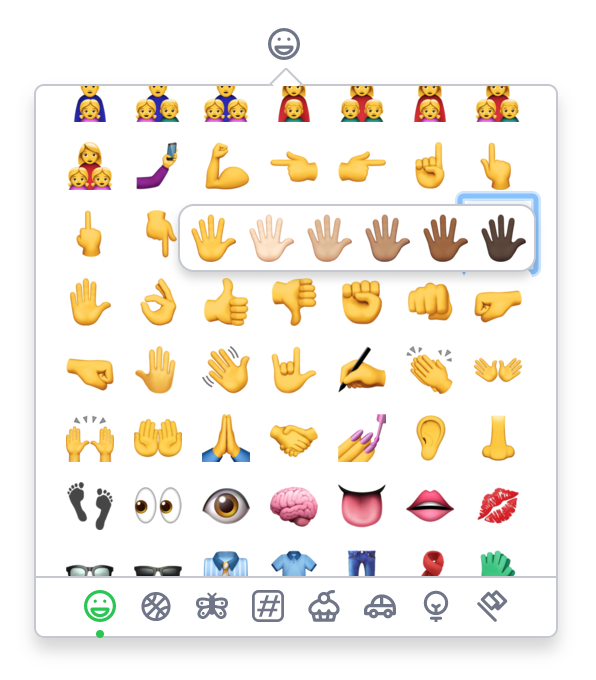
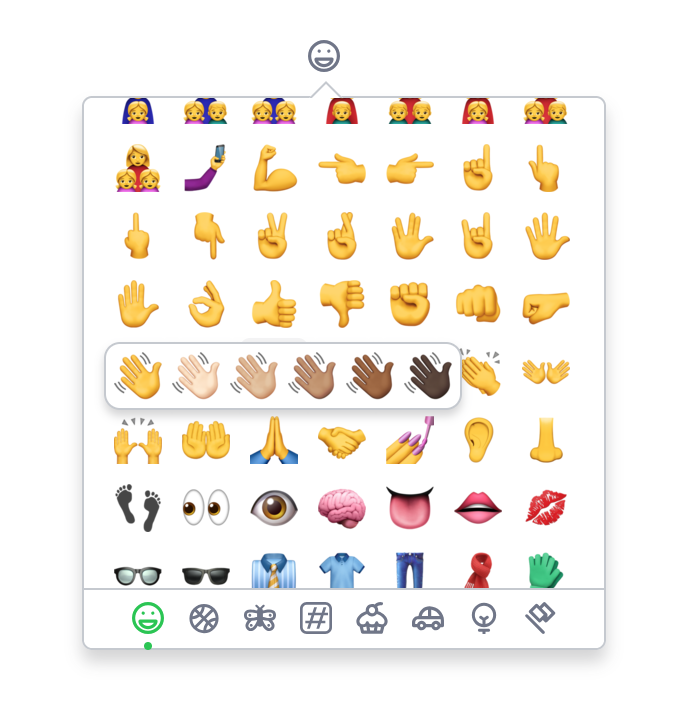
misc: update readme

diff --git a/packages/emogeez-parser/lib/matcher/matcher.test.js b/packages/emogeez-parser/lib/matcher/matcher.test.js
@@ -91,6 +91,7 @@ describe('Matcher', () => {
       assert.isFalse(hasOnlyEmojis('apple', simpleText5));
 
       assert.isTrue(hasOnlyEmojis('apple', emojisText1));
+      assert.isTrue(hasOnlyEmojis('apple', `${emojisText1} ${emojisText3}`));
       assert.isTrue(hasOnlyEmojis('apple', emojisText2));
       assert.isTrue(hasOnlyEmojis('apple', emojisText3));
       assert.isTrue(hasOnlyEmojis('apple', emojisText4));

diff --git a/packages/emogeez-parser/lib/matcher/matcher.js b/packages/emogeez-parser/lib/matcher/matcher.js
@@ -71,7 +71,7 @@ export default ({
       const charUnicode = getUnicode(char);
       const emojiName = getNameFromCodepoint(themeName, charUnicode);
 
-      return !isUndefined(emojiName);
+      return !isUndefined(emojiName) || /\s/g.test(char);
     });
 
     return (chars && (chars.length === emojis.length));

diff --git a/packages/emogeez-generator/lib/config/config.js b/packages/emogeez-generator/lib/config/config.js
@@ -32,7 +32,7 @@ export default (commander, emitter) => {
   const DEFAULT_CONFIG_PARAMS = {
     destination: 'emojis',
     themesUrl: DEFAULT_THEMES_URL,
-    size: 48,
+    size: 24,
     cache: false,
     prefix: 'emojis',
     preproc: 'sass',

diff --git a/packages/emogeez-generator/README.md b/packages/emogeez-generator/README.md
@@ -1,16 +1,17 @@
 # Emogeez generator 👷♂
 
 This module is a tool for building emojis sprites for many themes to be used on web apps.
-It gathers required informations from the website [Emojipedia](https://emojipedia.org) like images of all emojis in different themes and build an sprite image with all the emojis.
-To display these emojis on webpages it generates also the stylesheet file with the positions.
+It gathers required informations from the website [Emojipedia](https://emojipedia.org) like images of all emojis in different themes and build an sprite image with all the emojis and the stylesheet file associated with all the emojis positions.
 To be used on web app easily, it build a JSON file with useful informations about each emojis for each categories.
+You can after this use the [emogeez-react-components](https://github.com/arthur-feral/emogeez/blob/master/packages/emogeez-react-components/README.md) components library to display them on your app.
 
+---
 Themes that can be used: `apple, emojione, emojidex, emojipedia, facebook, google, htc, lg, messenger, microsoft, mozilla, samsung, twitter, whatsapp`
 
 Once the generator's work is done, you find the generated files into the specified folder (default in the current working directory).
-For each themes, you will find a .json, .png and .sass or .less.
+For each themes, you will find a .json, .png and .sass or .less and a .css file.
 
-![generator](https://github.com/arthur-feral/emogeez/blob/master/packages/emogeez-generator/demo_generator.png)
+![generator](https://github.com/arthur-feral/emogeez/raw/master/packages/emogeez-generator/demo_generator.png)
 
 #### The PNG
 [apple.png](https://github.com/arthur-feral/emogeez/raw/master/packages/emogeez-generator/emojis/apple/apple.png)
@@ -50,136 +51,57 @@ The emojis positions are stored in this stylesheet. Each emoji has a classname b
 It stores useful informations about each emoji.
 
 ```JSON
-{
-  "food-drink": {
-    "symbol": "🍔",
-    "url": "https://emojipedia.org/food-drink/",
-    "name": "food-drink",
-    "fullName": "Food & Drink",
-    "unicode": "1f354",
-    "emojis": [
-      {
-        "symbol": "🍇",
-        "name": "grapes",
-        "fullName": "Grapes",
-        "category": "food-drink",
-        "unicode": "1f347",
-        "shortnames": [
-          "grapes"
-        ],
-        "shortname": "grapes"
-      },
-      {
-        "symbol": "🍈",
-        "name": "melon",
-        "fullName": "Melon",
-        "category": "food-drink",
-        "unicode": "1f348",
-        "shortnames": [
-          "melon"
-        ],
-        "shortname": "melon"
-      },
-      {
-        "symbol": "🍉",
-        "name": "watermelon",
-        "fullName": "Watermelon",
-        "category": "food-drink",
-        "unicode": "1f349",
-        "shortnames": [
-          "watermelon"
-        ],
-        "shortname": "watermelon"
-      },
-```
-if an emoji owns modifiers (different version of an emoji like skin color etc...)
-of course you will find the modifiers version of emojis (black skin etc...). They are stored into the original emoji `modifiers` key if any. The modifiers versions of an emoji will have the same `index` key than the original.
-```
-{
-    "symbol": "🚣",
-    "url": "https://emojipedia.org/rowboat/",
-    "name": "rowboat",
-    "fullName": "Person Rowing Boat",
-    "category": "activity",
-    "unicode": "1f6a3",
+"father-christmas": {
+    "symbol": "🎅",
+    "name": "father-christmas",
+    "fullName": "Santa Claus",
+    "category": "people",
+    "unicode": "1f385",
     "shortnames": [
-      "rowboat"
+      "santa"
     ],
     "modifiers": {
-      "rowboat-type-1-2": {
-        "parent": "rowboat",
-        "fullName": "Person Rowing Boat: Light Skin Tone",
-        "name": "rowboat-type-1-2",
-        "symbol": "🚣🏻",
-        "category": "activity",
-        "url": "https://emojipedia.org/rowboat-type-1-2/",
-        "unicode": "1f6a3-1f3fb",
-        "shortnames": [
-          "rowboat-type-1-2"
-        ],
-        "modifiers": {},
-        "shortname": "rowboat-type-1-2"
+      "father-christmas-type-1-2": {
+        "parent": "father-christmas",
+        "fullName": "Santa Claus: Light Skin Tone",
+        "name": "father-christmas-type-1-2",
+        "symbol": "🎅🏻",
+        "category": "people",
       },
-      "rowboat-type-3": {
-        "parent": "rowboat",
-        "fullName": "Person Rowing Boat: Medium-Light Skin Tone",
-        "name": "rowboat-type-3",
-        "symbol": "🚣🏼",
-        "category": "activity",
-        "url": "https://emojipedia.org/rowboat-type-3/",
-        "unicode": "1f6a3-1f3fc",
-        "shortnames": [
-          "rowboat-type-3"
-        ],
-        "modifiers": {},
-        "shortname": "rowboat-type-3"
+      "father-christmas-type-3": {
+        "parent": "father-christmas",
+        "fullName": "Santa Claus: Medium-Light Skin Tone",
+        "name": "father-christmas-type-3",
+        "symbol": "🎅🏼",
+        "category": "people",
       },
-      "rowboat-type-4": {
-        "parent": "rowboat",
-        "fullName": "Person Rowing Boat: Medium Skin Tone",
-        "name": "rowboat-type-4",
-        "symbol": "🚣🏽",
-        "category": "activity",
-        "url": "https://emojipedia.org/rowboat-type-4/",
-        "unicode": "1f6a3-1f3fd",
-        "shortnames": [
-          "rowboat-type-4"
-        ],
-        "modifiers": {},
-        "shortname": "rowboat-type-4"
+      "father-christmas-type-4": {
+        "parent": "father-christmas",
+        "fullName": "Santa Claus: Medium Skin Tone",
+        "name": "father-christmas-type-4",
+        "symbol": "🎅🏽",
+        "category": "people",
       },
-      "rowboat-type-5": {
-        "parent": "rowboat",
-        "fullName": "Person Rowing Boat: Medium-Dark Skin Tone",
-        "name": "rowboat-type-5",
-        "symbol": "🚣🏾",
-        "category": "activity",
-        "url": "https://emojipedia.org/rowboat-type-5/",
-        "unicode": "1f6a3-1f3fe",
-        "shortnames": [
-          "rowboat-type-5"
-        ],
-        "modifiers": {},
-        "shortname": "rowboat-type-5"
+      "father-christmas-type-5": {
+        "parent": "father-christmas",
+        "fullName": "Santa Claus: Medium-Dark Skin Tone",
+        "name": "father-christmas-type-5",
+        "symbol": "🎅🏾",
+        "category": "people",
       },
-      "rowboat-type-6": {
-        "parent": "rowboat",
-        "fullName": "Person Rowing Boat: Dark Skin Tone",
-        "name": "rowboat-type-6",
-        "symbol": "🚣🏿",
-        "category": "activity",
-        "url": "https://emojipedia.org/rowboat-type-6/",
-        "unicode": "1f6a3-1f3ff",
-        "shortnames": [
-          "rowboat-type-6"
-        ],
-        "modifiers": {},
-        "shortname": "rowboat-type-6"
+      "father-christmas-type-6": {
+        "parent": "father-christmas",
+        "fullName": "Santa Claus: Dark Skin Tone",
+        "name": "father-christmas-type-6",
+        "symbol": "🎅🏿",
+        "category": "people",
       }
     },
-    "shortname": "rowboat"
-}
+    "shortname": "santa"
+    // ...
 ```
+if an emoji owns modifiers (different version of an emoji like skin color etc...)
+of course you will find the modifiers version of emojis (black skin etc...). They are stored into the original emoji `modifiers` key if any.
 
 ### How to use
 
@@ -214,7 +136,7 @@ $ yarn run -h
 
 Run it
 ```bash
-$ yarn run --preproc sass -d path/to/the/folder -s 48 -c
+$ yarn run --preproc sass -d path/to/the/folder -s 24 -c
 ```
 
 ###Options
@@ -228,7 +150,7 @@ $ yarn run --preproc sass -d path/to/the/folder -s 48 -c
 
 **size**
 
-```-s, --size``` The sprite's height (DEFAULT: 48)
+```-s, --size``` The sprite's height (DEFAULT: 24)
 
 **prefix**
 
@@ -236,7 +158,7 @@ $ yarn run --preproc sass -d path/to/the/folder -s 48 -c
 
 **cache**
 
-```-c, --cache``` Force using cache. In fact the program will get about 20k images and at least 2k html pages, so it caches datas on the first use and if you launch it again, it could use datas on the ``tmp/` folder. Don't use it if you want freash new datas from the websites. (DEFAULT: false)
+```-c, --cache``` Force using cache. In fact the program will get about 20k images and at least 2k html pages, so it caches datas on the first use and if you launch it again, it could use datas on the ``tmp/` folder. Don't use it if you want fresh new datas from the websites. (DEFAULT: false)
 
 # Notes
 This is an early version. I know it needs some fixes and optimization but it works.

diff --git a/packages/emogeez-parser/README.md b/packages/emogeez-parser/README.md
@@ -1,8 +1,9 @@
 # Emogeez parser
 
 This module helps you parsing emojis in text and find emojis to replace it with the emoji name, or utf8 or image.
-It works with emogeez-generator data generated. You can either use the `fetchTheme` to fetch the JSON file containing the emojis data (using the file hosting),
-or `setTheme` passing your data if you want to use a local json. :warning: the, JSON data must be properly formated as the generator whould do if you use custom json.
+It works with emogeez-generator data generated. You can either use the `fetchTheme` to fetch the JSON file containing the emojis data from the opensource cdn jsdeliver,
+`https://cdn.jsdelivr.net/gh/arthur-feral/emogeez@latest/packages/emogeez-generator/emojis/apple/apple.png`
+or `setTheme` passing your data if you want to use a custom json. :warning: the, JSON data must be properly formated as the generator whould do if you use custom json.
 
 ### Installation 
 ```bash
@@ -21,15 +22,12 @@ After running the `emogeez-generator` package, the generated files can be hosted
 import parserFactory from 'emogeez-parser';
 
 const {
+  store,
   replacer,
   matcher,
-} = parserFactory({
-  blackList: [],
-  theme: 'apple',
-  themesUrl: 'https://yourcdn.com/emojis/',
-});
+} = parserFactory();
 
-fetchTheme('apple')
+store.fetchTheme('apple')
     .then(() => {
       let text = 'Hello ! :) how are you 😊';
       const hasOnlyOneEmoji = matcher.hasOnlyOneEmoji('apple', text);
@@ -59,7 +57,7 @@ The default thème.
 
 ####themesUrl {string} 
 The url when all emojis themes are hosted. 
-**Default** the emogeez-generator repository. (the size of each emojis are 48px)
+**Default** the emogeez-generator repository: `https://cdn.jsdelivr.net/gh/arthur-feral/emogeez@latest/packages/emogeez-generator/emojis/apple/apple.json`
 
 
 store
@@ -182,6 +180,23 @@ Find the list of emojis's names in the text
 
 **returns** {array<string>}
 
+#### hasOnlyEmojis
+Return true if the string contains only emojis in it
+
+**arguments**
+- `theme` {string} the theme for what we want to match emojis
+- `text` {string} the text in which we want to find if there is emojis
+
+**returns** {boolean}
+
+#### hasOnlyOneEmoji
+Return true if the string contains only one emoji in it
+
+**arguments**
+- `theme` {string} the theme for what we want to match emojis
+- `text` {string} the text in which we want to find if there is emojis
+
+**returns** {boolean}
 
 # Notes
 

diff --git a/packages/emogeez-react-components/README.md b/packages/emogeez-react-components/README.md
@@ -6,7 +6,7 @@ or you can fetch manually the json file generated with [emogeez-generator](https
 [hosted here](https://cdn.jsdelivr.net/gh/arthur-feral/emogeez@latest/packages/emogeez-generator/emojis/apple/apple.json)(https://cdn.jsdelivr.net/gh/arthur-feral/emogeez@latest/packages/emogeez-generator/emojis/apple/apple.json).
 
 <p align="center">
-  <img src="https://github.com/arthur-feral/emogeez/blob/master/packages/emogeez-react-components/popup_emojis.png">
+  <img src="https://raw.githubusercontent.com/arthur-feral/emogeez/master/packages/emogeez-react-components/popup_emojis.png">
 </p>
 
 You can test it by running the storybook.
@@ -103,6 +103,10 @@ static propTypes = {
   
   onOpen: PropTypes.func,
   onClose: PropTypes.func,
+  
+  // if you want the popup to be placed according to a parent
+  // the popup will try to be contained in it
+  containerClassNameForPlacement: PropTypes.string,
 };
 static defaultProps = {
   prefix: 'emojis',
@@ -118,6 +122,7 @@ static defaultProps = {
   ),
   onOpen: noop,
   onClose: noop,
+  containerClassNameForPlacement: null,
 };
 ```
 
